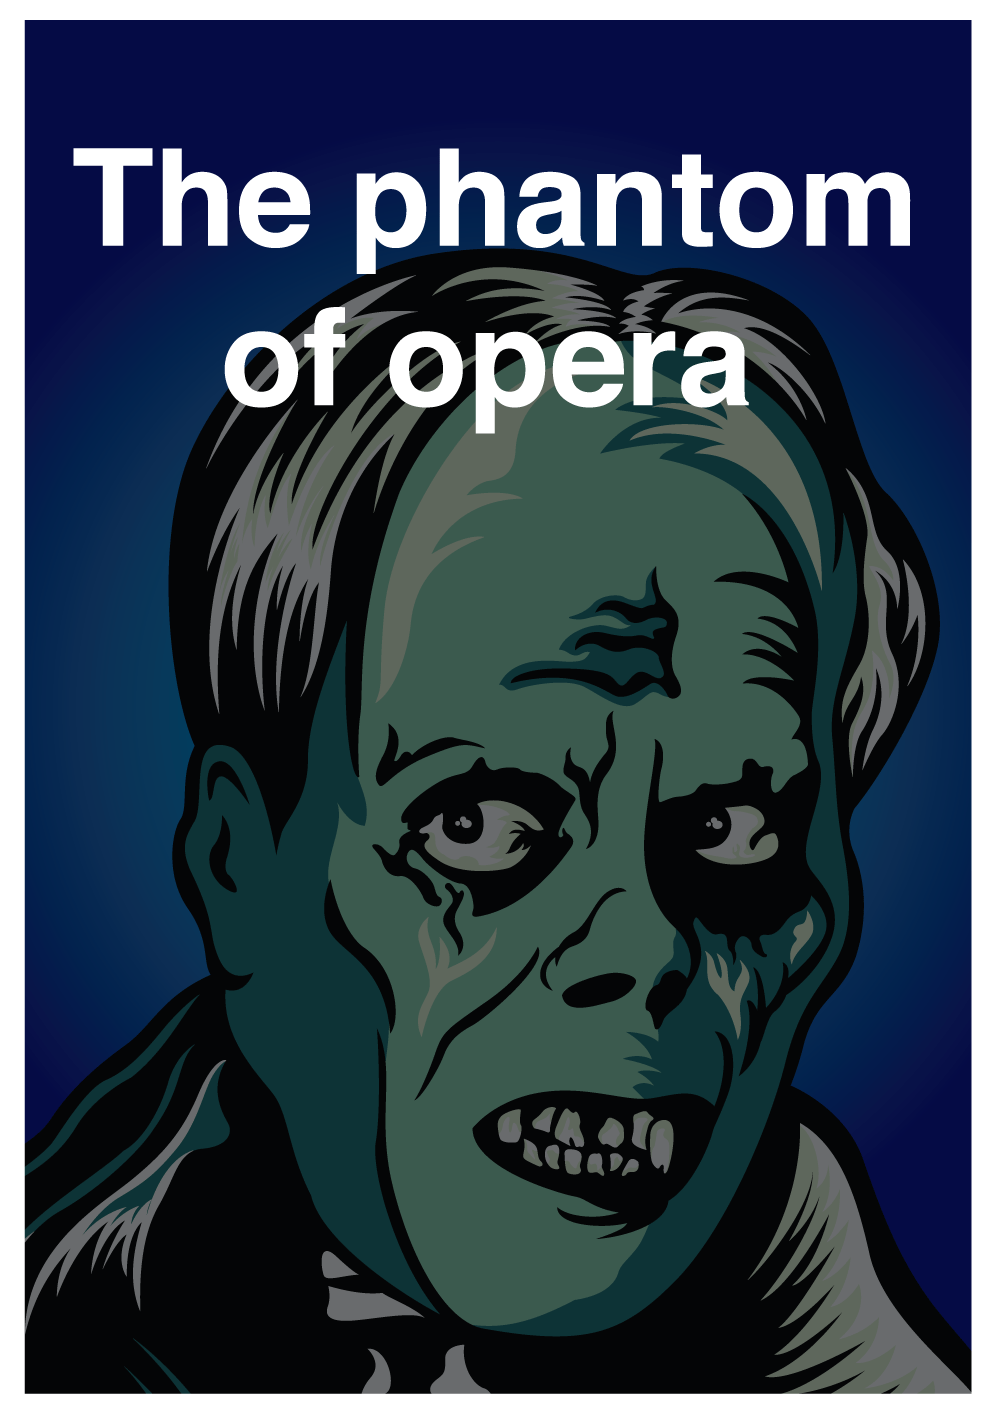
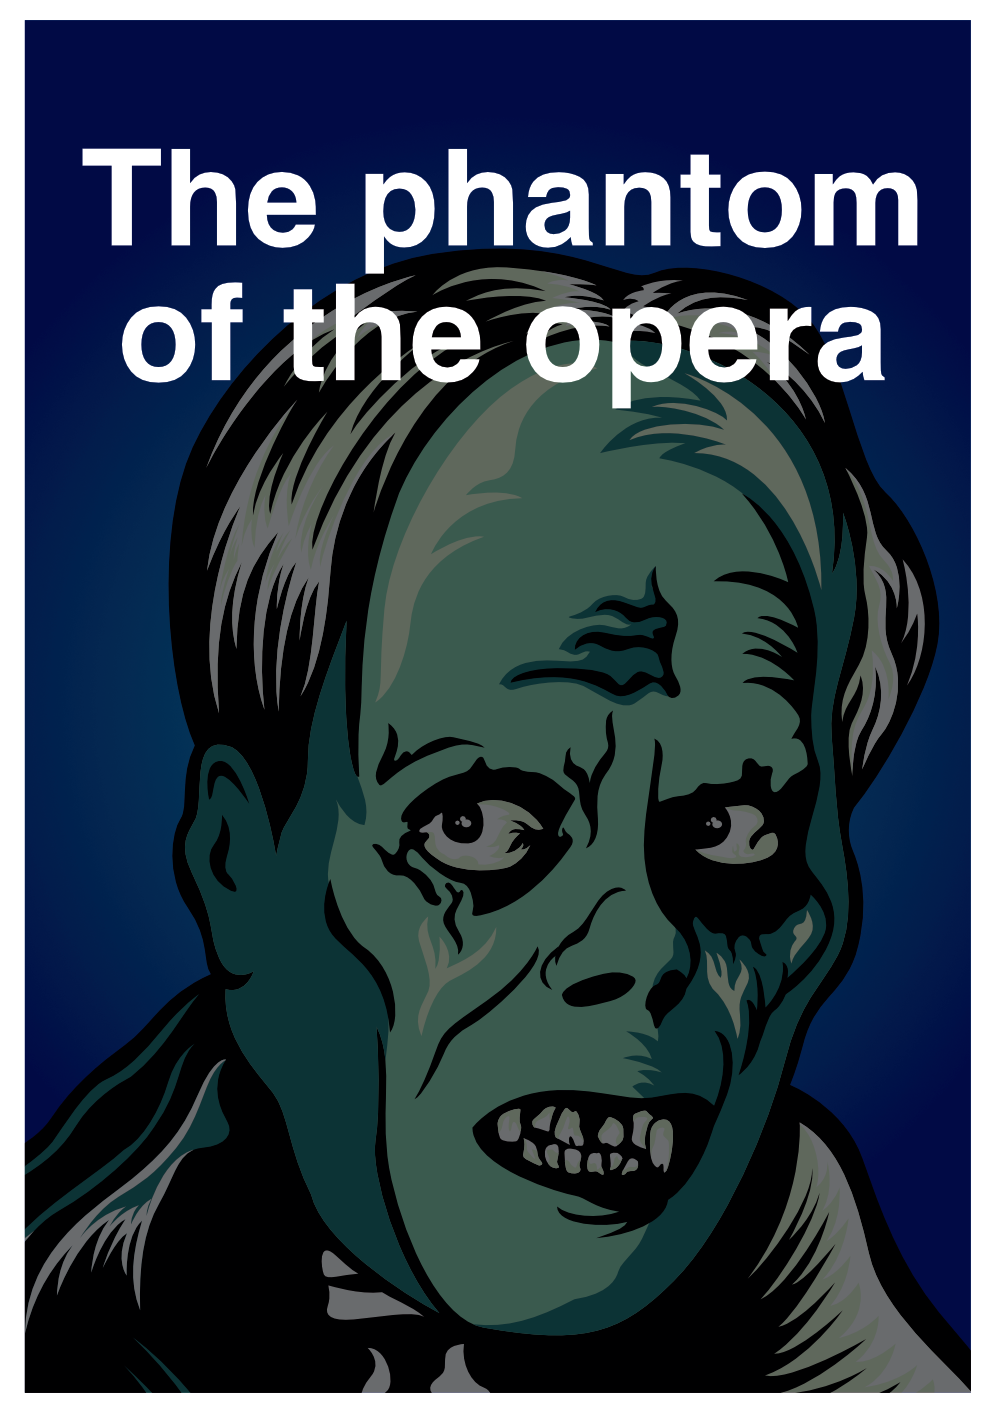
Fix phantom of the opera image

Changed region(s): [[0.062, 0.0934, 0.93, 0.3112], [0.899, 0.4356, 0.93, 0.4668]]

diff --git a/styles.css b/styles.css
@@ -1,3 +1,6 @@
+body {
+  font-family: sans-serif;
+}
 .grid {
       display: grid;
       background: none;
@@ -88,14 +91,14 @@
 }
 .opera {
   grid-area: 5 / 3 / 7 / 4;
-    z-index:1;
+  z-index:1;
 }
 .operaTy {
   grid-area: 5 / 3 / 7 / 4;
 }
 .invisible {
   grid-area: 5 / 4/ 7 / 5;
-    z-index:1;
+  z-index:1;
 }
 .invisibleTy {
   grid-area: 5 / 4/ 7 / 5;
@@ -104,7 +107,7 @@
 img {
   max-width: 100%;
   height: auto;
-  
+
 }
 
 @media screen and (max-width: 600px) {

diff --git a/index.html b/index.html
@@ -68,7 +68,7 @@
     <img  src="./images/Bride.png" />
     </div>
     <div class="brideTy ">
-    <img  src="./images/BrideTY.png" />
+    <img  src="./images/BrideTy.png" />
     </div>
 
     <div class="opera monster">
@@ -81,7 +81,7 @@
     <img  src="./images/Invisible.png" />
     </div>
     <div class="invisibleTy">
-    <img  src="./images/invisibleTy.png" />
+    <img  src="./images/InvisibleTy.png" />
     </div>
   </div>
 
